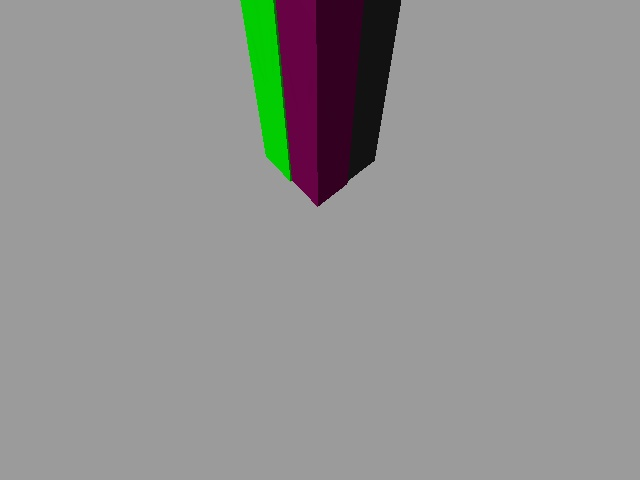
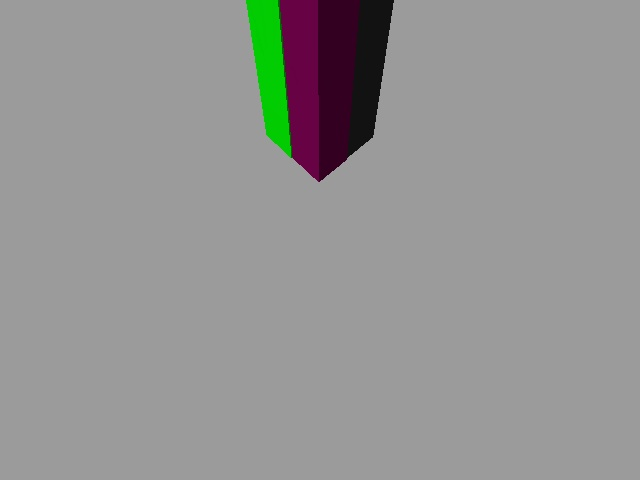
generate schematic working with new block sizes

Changed region(s): [[0.375, 0.0, 0.625, 0.4375], [0.5312, 0.0938, 0.5625, 0.1562], [0.5312, 0.1875, 0.5625, 0.2188]]

diff --git a/src/generate_schematic/src/generate_schematic.py b/src/generate_schematic/src/generate_schematic.py
@@ -32,23 +32,23 @@ def main():
     #remove duplicates
     world_coordinates = unique_rows(world_coordinates)
     before_apply_square_world_coordinates = world_coordinates.copy()[world_coordinates[:, 2] >= 0]
-    print(world_coordinates)
+    # print(world_coordinates)
     #go downward layer by layer, and at each layer remove non-squares and project points to lower layers
     max_z_coordinate = max(world_coordinates[:, 2])
     z = max_z_coordinate
     z_diff = BLOCK_Z
     filtered_layers = []
     while (z >= 0):
-        print("z", z)
+        # print("z", z)
         cur_layer = np.array([c for c in world_coordinates if np.isclose(c[2], z)])
-        print(cur_layer)
+        # print(cur_layer)
         cur_layer = apply_square_filter(cur_layer)
         if len(cur_layer) != 0:
             filtered_layers.append(cur_layer)
         if z != 0:
             for point in cur_layer:
                 world_coordinates = np.vstack((world_coordinates, np.array([point[0], point[1], z - z_diff])))
-        print("world coordinates after pushiing down points", world_coordinates)
+        # print("world coordinates after pushiing down points", world_coordinates)
         world_coordinates = unique_rows(world_coordinates)
         z -= z_diff
 
@@ -82,8 +82,13 @@ def apply_square_filter(coordinates):
                             [(x + x_diff, y, z), (x, y - y_diff, z), (x + x_diff, y - y_diff, z)],
                             [(x - x_diff, y, z), (x, y + y_diff, z), (x - x_diff, y + y_diff, z)]]
         for square in possible_squares:
-            square_corners = [np.any(np.isclose(coordinates, square[i])) for i in range(3)]
-            if sum(square_corners) >= 3:
+            square_corners = 0
+            for i in range(3):
+                for c in coordinates:
+                    if np.allclose(c, square[i]):
+                        square_corners += 1
+                        break
+            if square_corners >= 3:
                 filtered_coordinates.append(coordinate)
     return np.array(filtered_coordinates)
 

diff --git a/src/global_constants/src/global_constants/constants.py b/src/global_constants/src/global_constants/constants.py
@@ -18,7 +18,8 @@ CAMERA_DATA = [
 ]
 
 zs = [0.6, 1.2, 1.8]
-deltas = [(.3, .3, np.pi + np.pi/4), (-.3, .3, 2 * np.pi -np.pi/4), (-.3, -.3, np.pi/4), (.3, -.3, np.pi/2 + np.pi/4)]
+delta = .325
+deltas = [(delta, delta, np.pi + np.pi/4), (-delta, delta, 2 * np.pi -np.pi/4), (-delta, -delta, np.pi/4), (delta, -delta, np.pi/2 + np.pi/4)]
 for delta in deltas:
     for z in zs:
         CAMERA_DATA.append([(x + delta[0], y + delta[1], z), (0 , 1.15, delta[2])])
